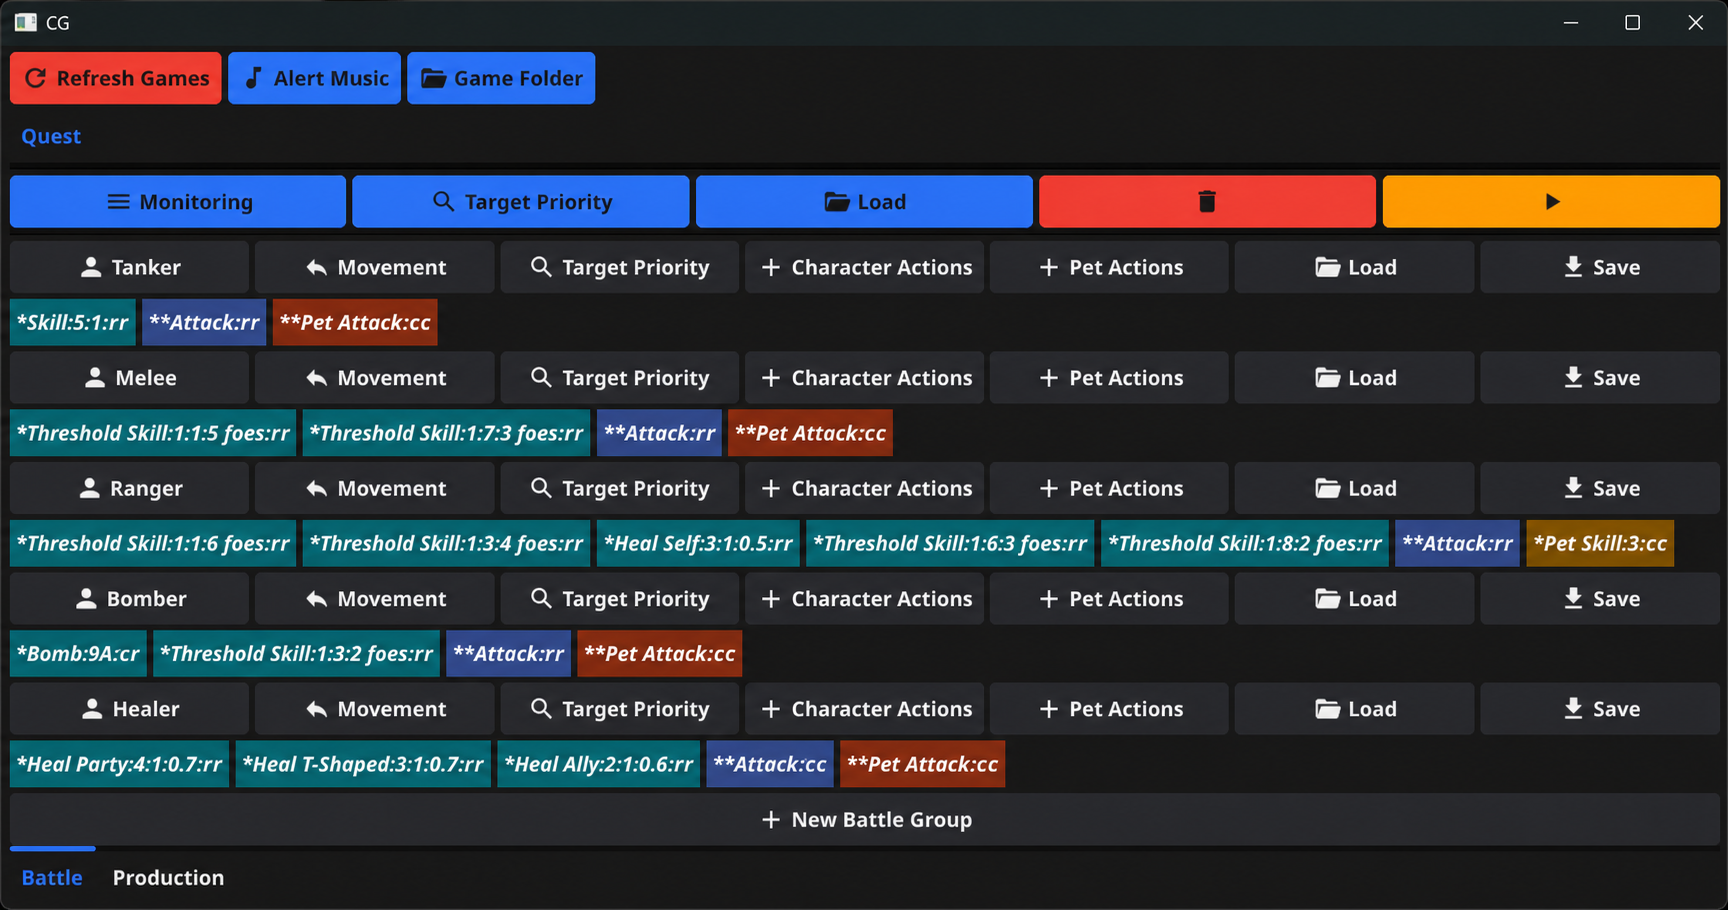
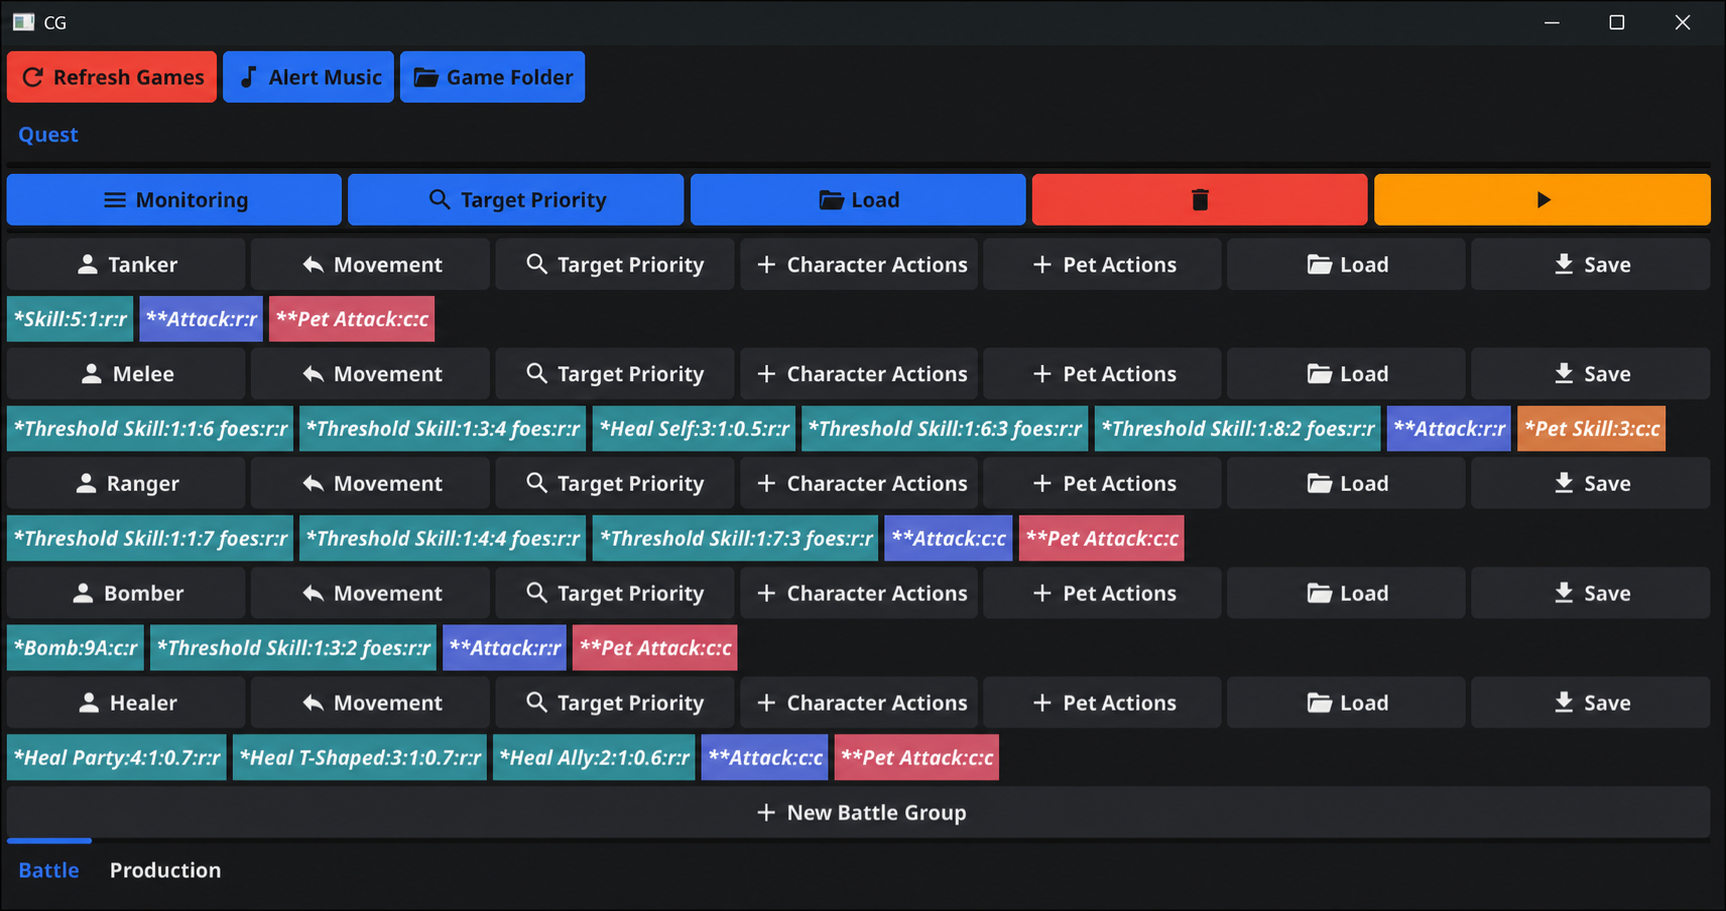
style: brighten battle tag palette

diff --git a/container/battle_tags.go b/container/battle_tags.go
@@ -23,12 +23,12 @@ func generateTags(actionState battle.ActionState) (tagContaines []fyne.CanvasObj
 }
 
 var (
-	characterFinishingTagColor   = color.RGBA{0x33, 0x4E, 0x9A, 0xFF}
-	characterConditionalTagColor = color.RGBA{0x00, 0x6B, 0x78, 0xFF}
-	characterSpecialTagColor     = color.RGBA{0x45, 0x5A, 0x64, 0xFF}
-	petFinishingTagColor         = color.RGBA{0x9A, 0x34, 0x12, 0xFF}
-	petConditionalTagColor       = color.RGBA{0x8A, 0x5A, 0x00, 0xFF}
-	petSpecialTagColor           = color.RGBA{0x7A, 0x3E, 0x5D, 0xFF}
+	characterFinishingTagColor   = color.RGBA{0x5B, 0x6F, 0xD8, 0xFF}
+	characterConditionalTagColor = color.RGBA{0x2F, 0x8F, 0x9D, 0xFF}
+	characterSpecialTagColor     = color.RGBA{0x79, 0x6F, 0xA8, 0xFF}
+	petFinishingTagColor         = color.RGBA{0xD8, 0x5A, 0x70, 0xFF}
+	petConditionalTagColor       = color.RGBA{0xD9, 0x82, 0x4B, 0xFF}
+	petSpecialTagColor           = color.RGBA{0xBD, 0x5F, 0x91, 0xFF}
 )
 
 func newTagContainer(tag string, tagColor color.Color) *fyne.Container {